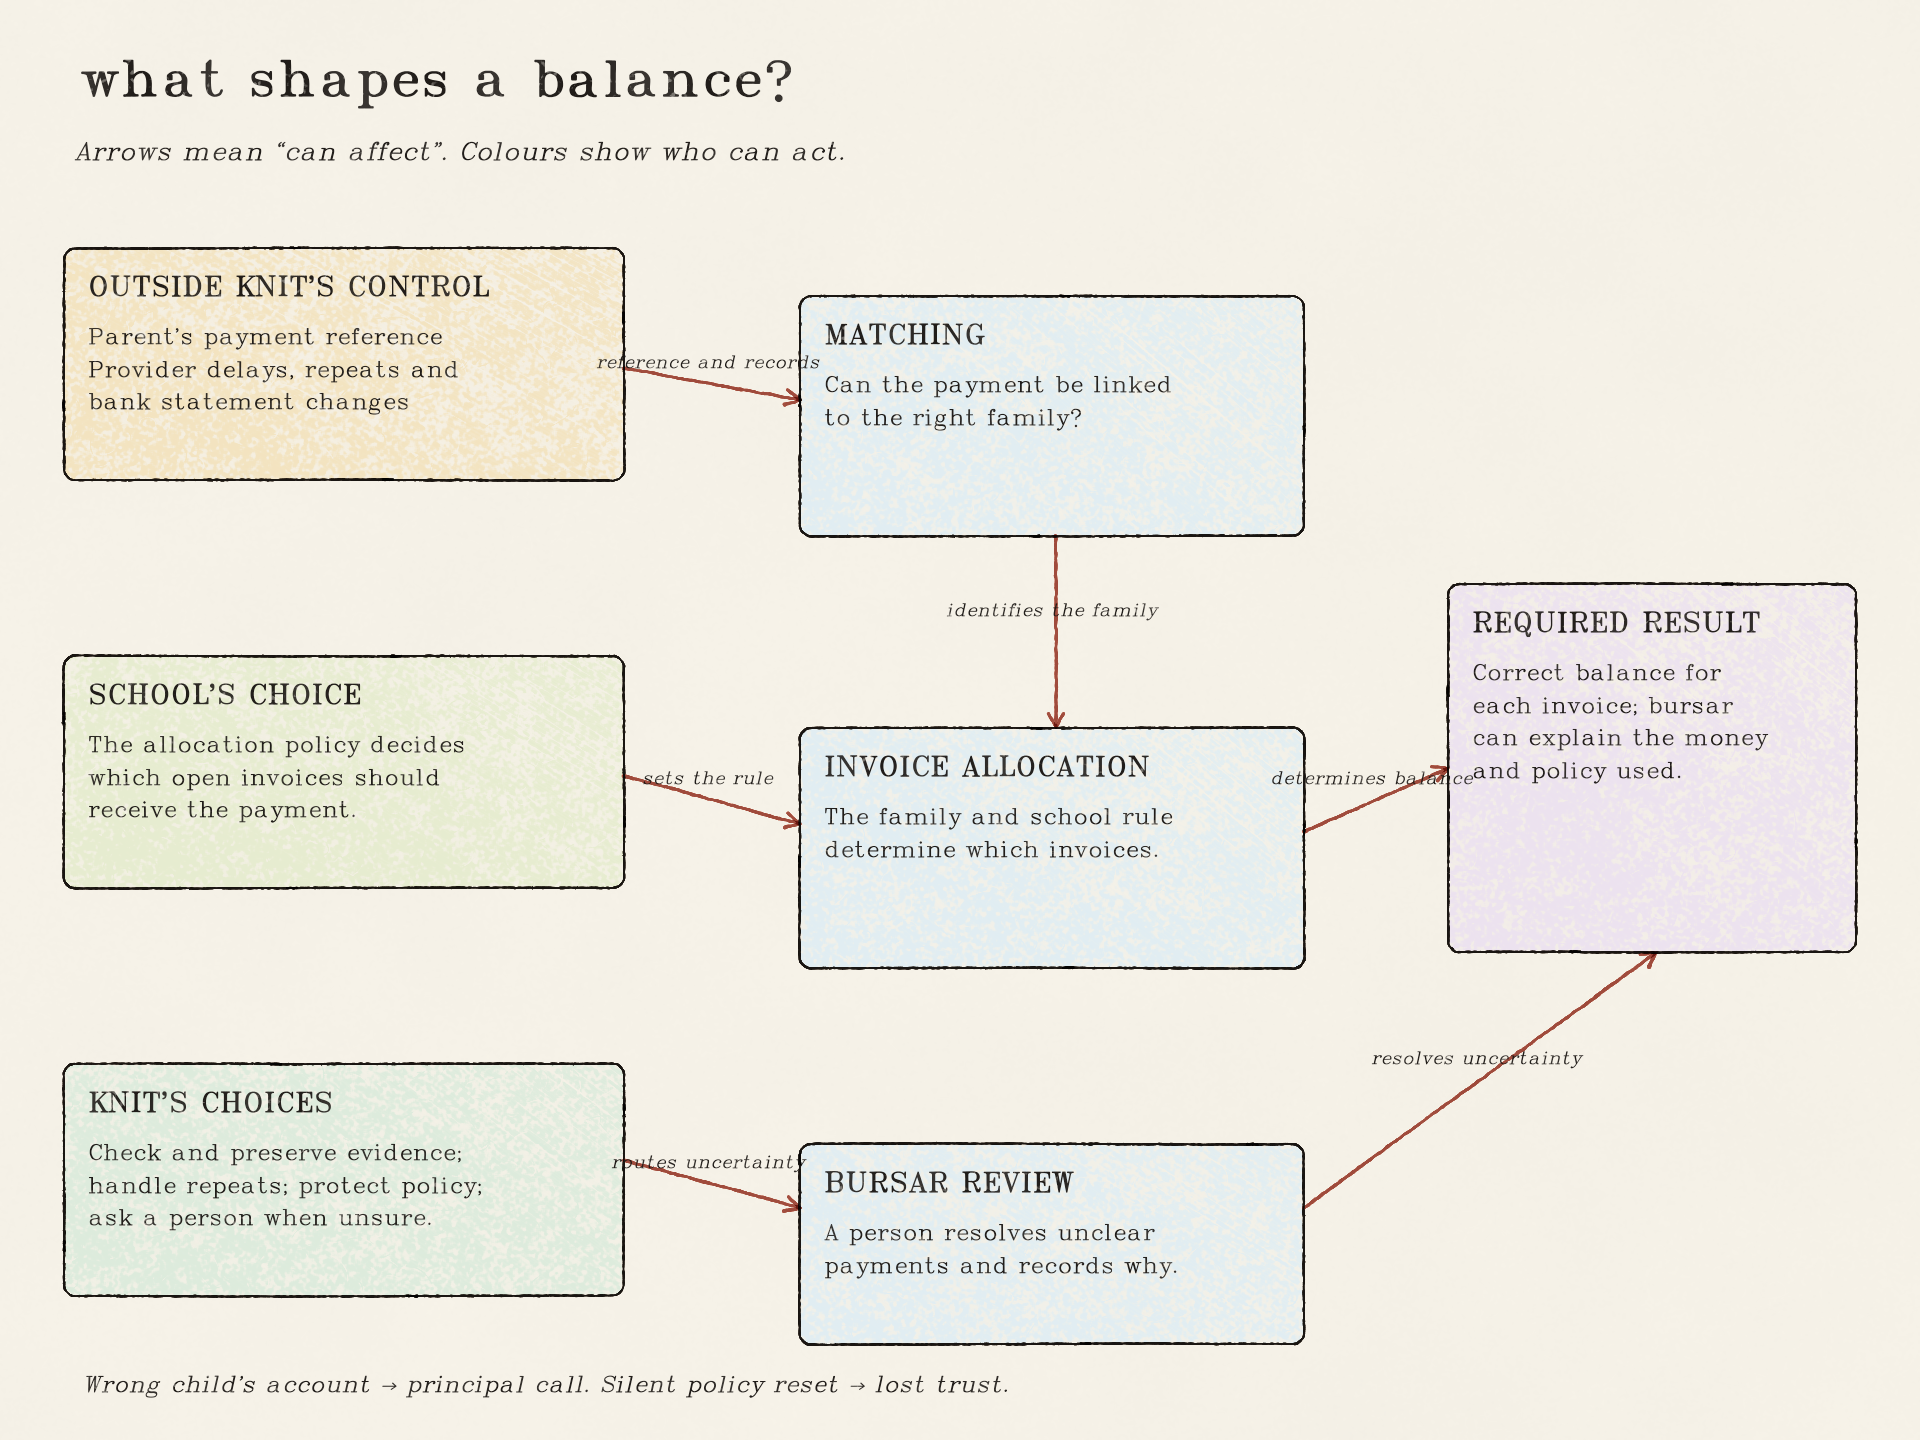
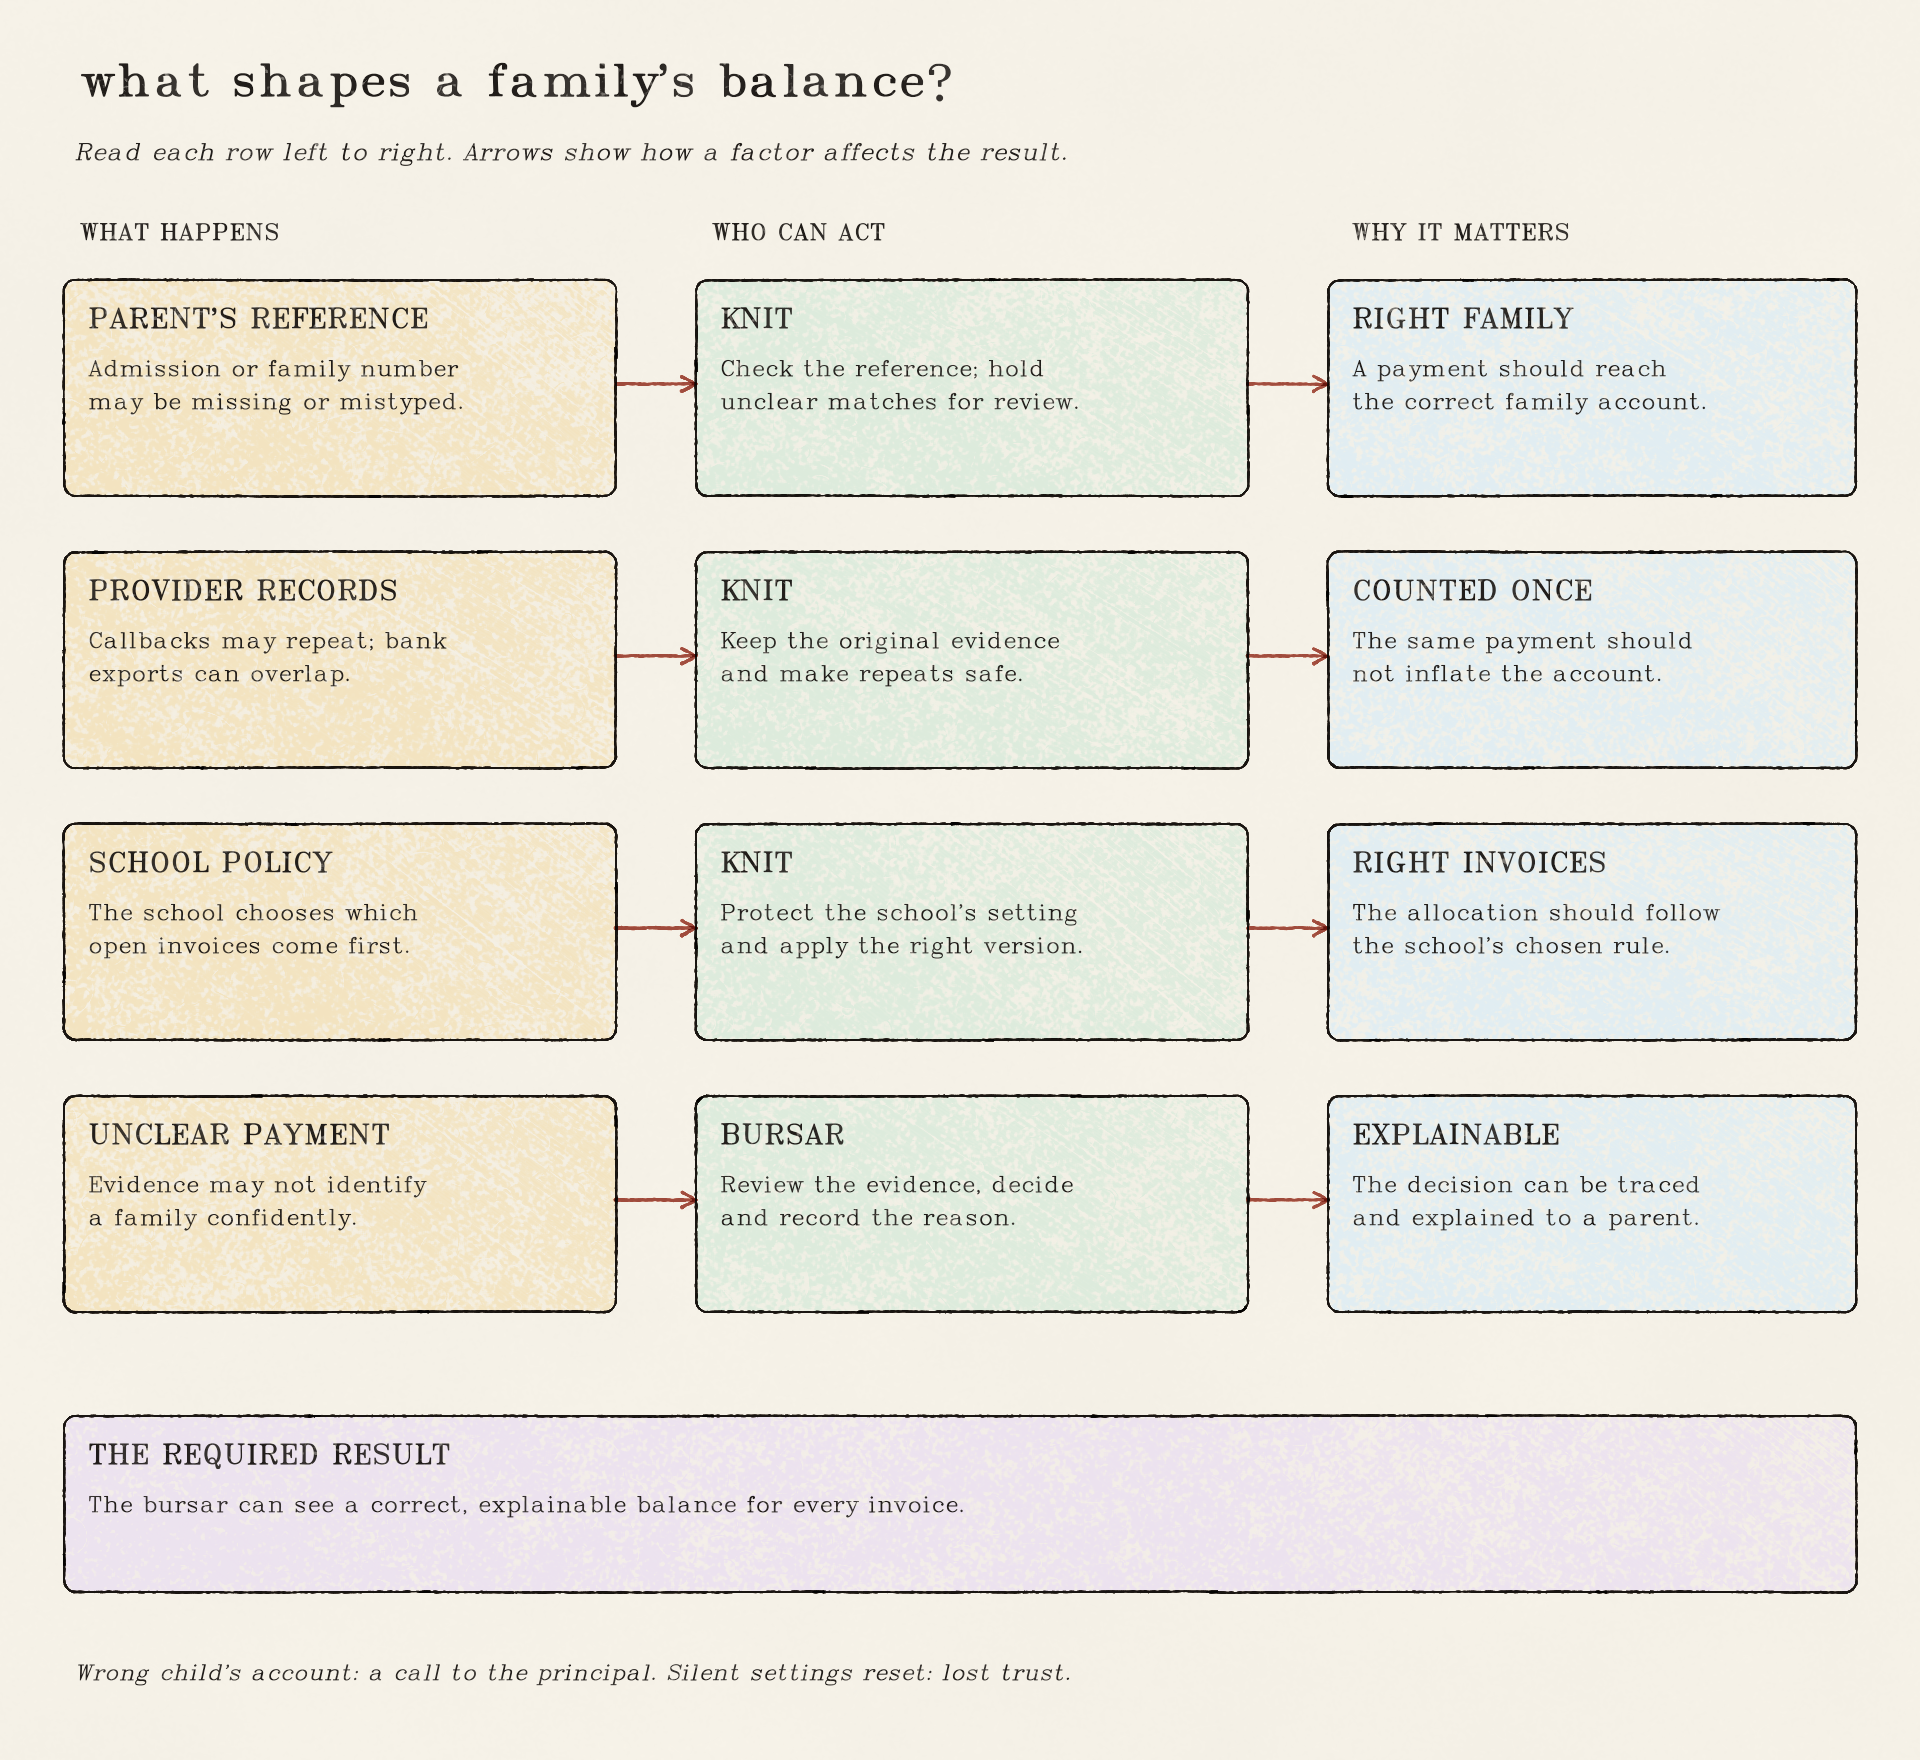
Add problem framing presentation diagrams

diff --git a/NOTES.md b/NOTES.md
@@ -178,3 +178,9 @@ Editable diagram source: [`visuals/stakeholder-perspectives.mmd`](visuals/stakeh
 The [stakeholder map](visuals/stakeholder-map.png) groups the people and organizations by their roles, needs, and concerns. The [influence diagram](visuals/influence-diagram.png) shows how outside conditions and choices affect the family match, invoice allocation, and the bursar's ability to explain the balance. The arrows describe influence, not a prescribed payment flow.
 
 Both images are drawn by [`visuals/draw-maps.cjs`](visuals/draw-maps.cjs), using the hand-drawn tools from the statechart-art repository. To regenerate them, clone that repository to `.work/statechart-art`, run `npm ci --ignore-scripts` in its `tools` directory, then run `node visuals/draw-maps.cjs` from this project.
+
+## Presentation views
+
+- [Struggling moment](visuals/struggling-moment.png): an illustrative wrong-child payment and the impact across the parent, family, bursar, school, and Knit. The brief supplies the failure and possible call to the principal; the sequence and individual reactions are inferred.
+- [Four Forces](visuals/four-forces.png): potential reasons a school might change, and potential reasons it might hesitate. School motivations and habits require interviews; the assessment alone does not establish them.
+- [System boundary and evidence](visuals/system-boundary.png): the supplied records, exercise responsibilities, bursar's required view, and unresolved decisions. The boundary describes the assessment rather than a selected architecture.
